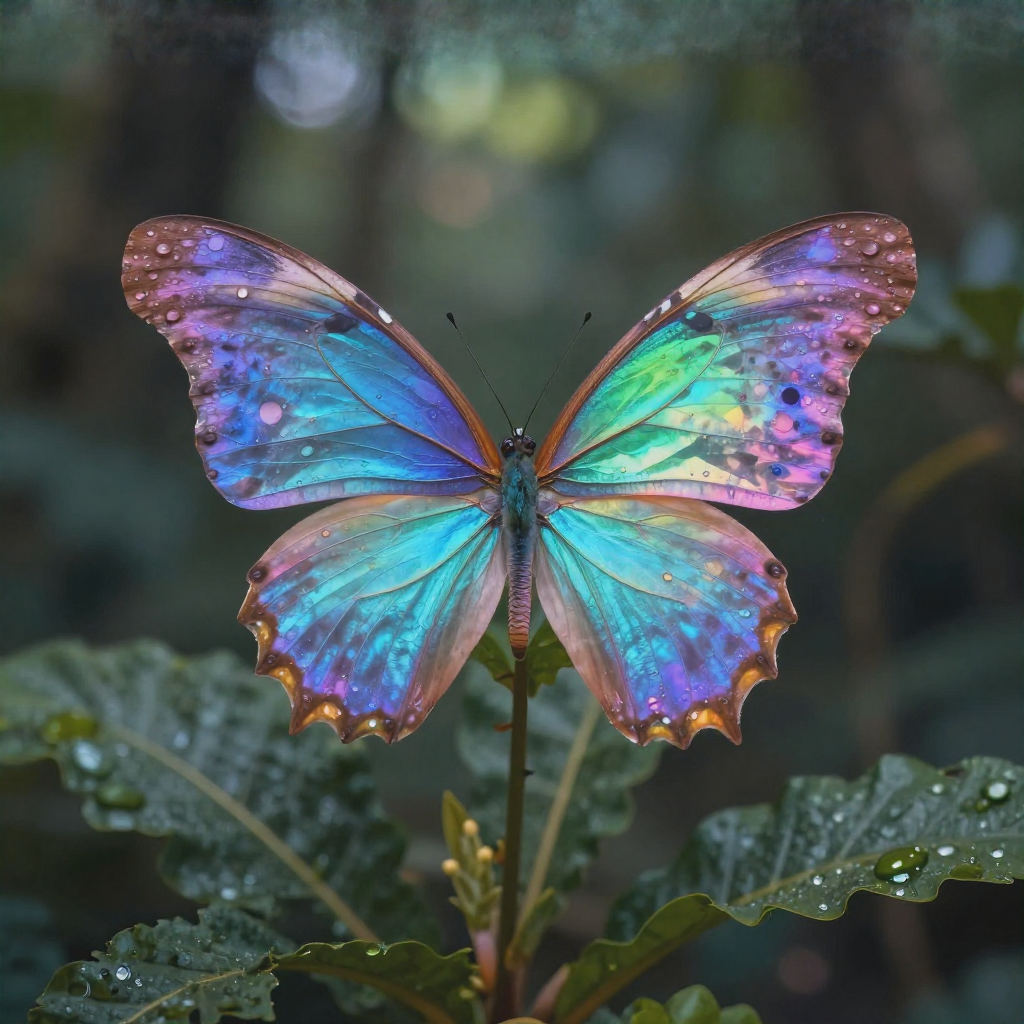
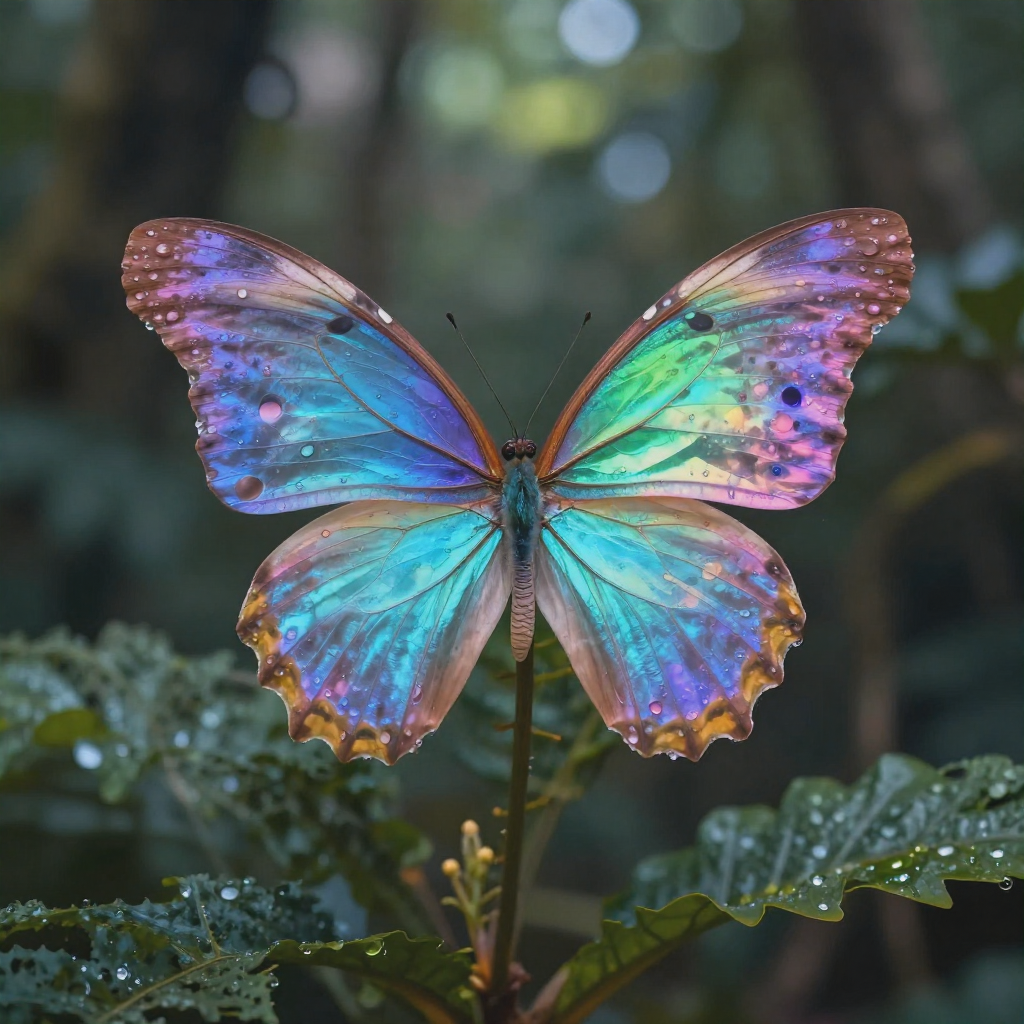
HMSW-4129: support siglip2

diff --git a/models/embedding/siglip2/get_model.py b/models/embedding/siglip2/get_model.py
@@ -75,6 +75,13 @@ def get_args() -> argparse.Namespace:
     )
     parser.add_argument("--ndevice", type=int, default=None, help="device number")
     parser.add_argument("--ncore", type=int, default=None, help="core number")
+    parser.add_argument(
+        "--quant_type",
+        dest="quant_type",
+        type=str,
+        default=None,
+        help="quantization type",
+    )
     return parser.parse_args()
 
 
@@ -88,6 +95,9 @@ def main():
     model_config = model_configs.get(model_name, {}).get(model_size, {})
     ndevice = first_not_none(args.ndevice, model_config.get("ndevice", 1))
     ncore = first_not_none(args.ncore, model_config.get("ncore", 1))
+    quant_type = first_not_none(
+        args.quant_type, model_config.get("quant_type", "wmix_amix")
+    )
 
     model_cfgs = {
         "target": HOUMO_TARGET,
@@ -98,6 +108,7 @@ def main():
             "model_size": model_size,
             "ncore": ncore,
             "ndevice": ndevice,
+            "quant_type": quant_type,
         },
     }
     if args.file_type == "raw":

diff --git a/models/embedding/siglip2/ptq.py b/models/embedding/siglip2/ptq.py
@@ -78,7 +78,7 @@ def parse_args():
         default=f"output/{HOUMO_TARGET}/hmquant",
         help="directory for tokenizer, ONNX, and hmonnx artifacts",
     )
-    parser.add_argument("--quant_type", default="w8a8_sefp", help="xhquant quant type")
+    parser.add_argument("--quant_type", default=None, help="xhquant quant type")
     parser.add_argument("--image_size", type=int, default=IMAGE_SIZE)
     parser.add_argument("--seq_len", type=int, default=SEQ_LEN)
     parser.add_argument(
@@ -563,6 +563,9 @@ def main():
     model_config = model_configs.get(args.model_name, {}).get(args.model_size, {})
     args.model_dir = os.path.abspath(
         first_not_none(args.model_dir, get_default_model_dir(model_config))
+    )
+    args.quant_type = first_not_none(
+        args.quant_type, model_config.get("quant_type", "w8a8_sefp")
     )
 
     model_dir = Path(args.model_dir).expanduser().resolve()

diff --git a/tests/conftest.py b/tests/conftest.py
@@ -49,6 +49,8 @@ if os.getenv("HOUMO_EXAMPLES_PATH", None) is None or not os.getenv(
 ):
     os.environ["HOUMO_EXAMPLES_PATH"] = os.path.abspath(f"{script_dir}/../")
 
+os.environ["HOUMO_VERSION"] = "1.5.0"
+
 
 def pytest_configure(config):
     """
